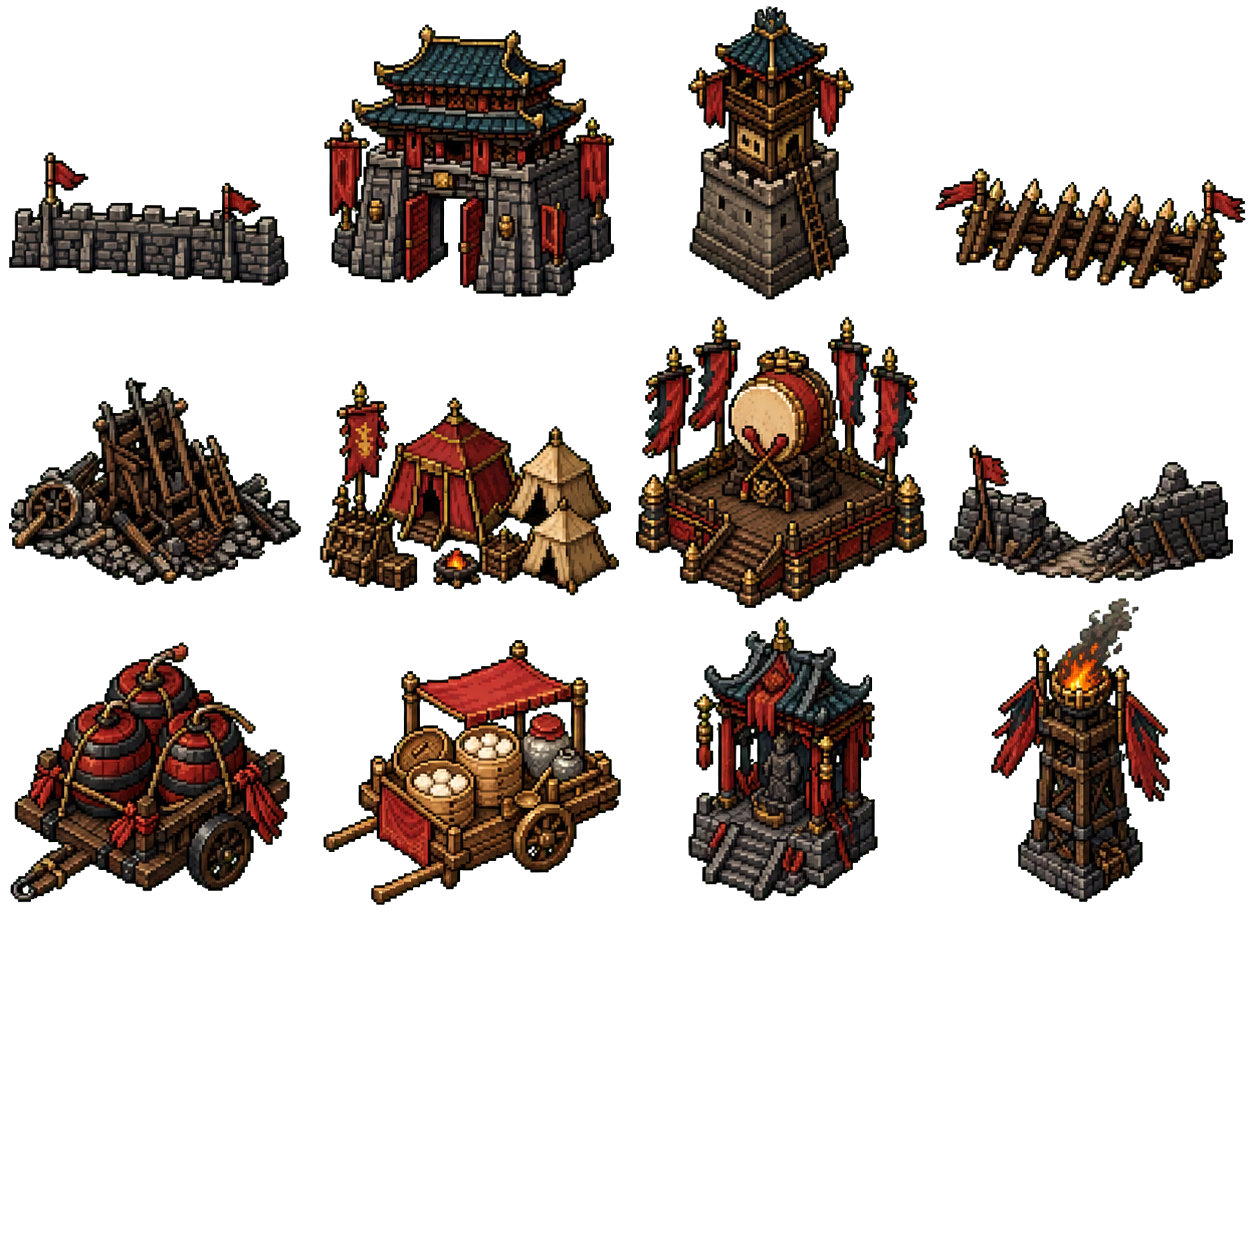
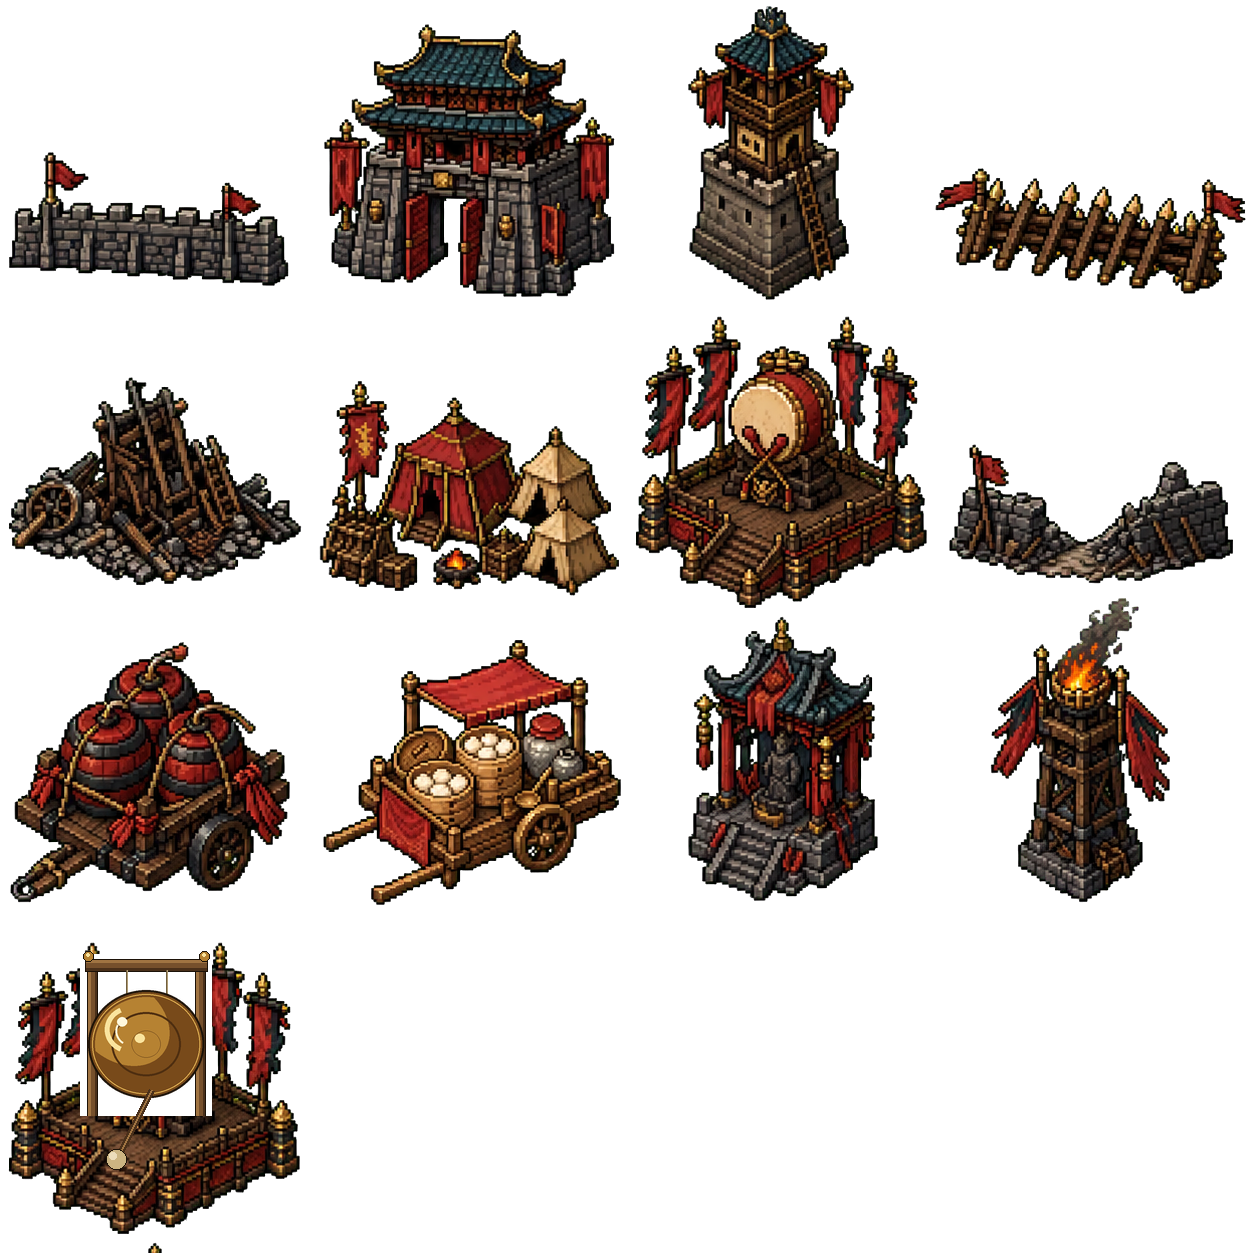
동라 銅鑼 전용 도트: 월드 아틀라스 셀12 키트배시(청동 징) + 렌더 분기 분리
- warDrum 베이스에 가죽 북 → 매달린 청동 디스크(광택 크레센트+동심원 각인), 팔레트 정합
- 무손실 병합(셀12 한정 diff), 전고와 실루엣·재질 즉시 구분

Changed region(s): [[0.0, 0.7464, 0.2488, 1.0]]

diff --git a/src/game/objects.ts b/src/game/objects.ts
@@ -272,8 +272,9 @@ export class BattlefieldObjects {
         this.batch.push(WORLD_ASSETS.dumplingCart, this.x[i], this.z[i], 2.5, 2.1, 1.18);
       } else if (this.kind[i] === KIND_SHRINE) {
         this.batch.push(WORLD_ASSETS.shrine, this.x[i], this.z[i], 2.8, 3.3, 1.13);
-      } else if (this.kind[i] === KIND_GONG || this.kind[i] === KIND_DRUM) {
-        // 동라/전고 전용 스프라이트 부재 → warDrum 재사용(글로우·이름표로 구분). TODO: 전용 동라 스프라이트.
+      } else if (this.kind[i] === KIND_GONG) {
+        this.batch.push(WORLD_ASSETS.gong, this.x[i], this.z[i], 2.4, 2.2, 1.1);
+      } else if (this.kind[i] === KIND_DRUM) {
         this.batch.push(WORLD_ASSETS.warDrum, this.x[i], this.z[i], 2.4, 2.2, 1.1);
       } else {
         this.batch.push(WORLD_ASSETS.palisade, this.x[i], this.z[i], 3.7, 2.15, 1.05);

diff --git a/src/gfx/worldKit.ts b/src/gfx/worldKit.ts
@@ -37,6 +37,7 @@ export const WORLD_ASSETS = {
   dumplingCart: 9,
   shrine: 10,
   beacon: 11,
+  gong: 12, // 동라 銅鑼 전용 (아틀라스 셀 12 = row3,col0) — #41 동라/전고 시각 구분
 } as const;
 
 export type WorldAsset = (typeof WORLD_ASSETS)[keyof typeof WORLD_ASSETS];